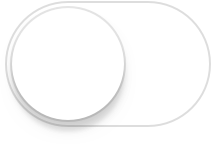
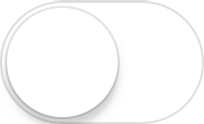
list with arrow and switch

diff --git a/index.html b/index.html
@@ -57,6 +57,9 @@
       font-size: 14px;
       line-height: 100%;
     }
+    .pTxt-small{
+      color: #999;
+    }
     .padLeft{
       padding-left: 15px;
     }
@@ -81,6 +84,43 @@
     .flex-center{
       justify-content: center;
     }
+    .arrow-right{
+      width: 6px;
+      height: 11px;
+      background-image: url(image/arrow-right@2x.png);
+      background-repeat: no-repeat;
+      background-size: contain;
+      float:right;
+    }
+    .toRight{
+      float: right;
+      align-items: flex-end;
+      text-align: right;
+    }
+    .toLeft{
+      float: left;
+      text-align: left;
+    }
+    .switch{
+      width: 51px;
+      height: 31px;
+      background-repeat: no-repeat;
+      background-size: contain;
+      float:right;
+    }
+    .switch-on{
+       background-image: url(image/switch-on@2x.png);
+    }
+    .switch-off{
+      background-image: url(image/switch-off@2x.png);
+    }
+    /*.divide{
+      width: 100%;
+      height: 20px;
+      padding: 20px;
+      background: #f6f6f6;
+      border-bottom: 1px solid #eee;
+    }*/
   </style>
     
 
@@ -97,6 +137,44 @@
       )
     }
 
+    function ListA(txt){
+      return (
+        <div className="list flex flex-center-vertical">
+          <p className="pTxt flex-1 padLeft">{txt.name}</p>
+          <div className="arrow-right flext-1 padRight"></div>
+        </div> 
+      )
+    }
+
+    function ListAT(txt){
+      return (
+        <div className="list flex flex-center-vertical">
+          <p className="pTxt flex-1 padLeft">{txt.name1}</p>
+          <p className="pTxt pTxt-small flex-1 padRight toRight">{txt.name2}</p>
+          <div className="arrow-right flext-1 padRight"></div>
+        </div> 
+      )
+    }
+
+    function ListSON(txt){
+      return (
+        <div className="list flex flex-center-vertical">
+          <p className="pTxt flex-1 padLeft">{txt.name}</p>
+          <div className="switch switch-on flext-1 padRight"></div>
+        </div> 
+      )
+    }
+
+    function ListSOFF(txt){
+      return (
+        <div className="list flex flex-center-vertical">
+          <p className="pTxt flex-1 padLeft">{txt.name}</p>
+          <div className="switch switch-off flext-1 padRight"></div>
+        </div> 
+      )
+    }
+
+   
     function Btn1(txt){
       return (
         <div className="btn btn1 flex flex-center-vertical">
@@ -124,6 +202,11 @@
           <ListR name = "列表"/> 
           <ListR name = "列表"/> 
           <ListR name = "列表"/> 
+          <ListA name = "带箭头的列表"/> 
+          <ListAT name1 = "带箭头和提示字的列表" name2="未设置"/> 
+          <ListSON name = "带开关的列表-开"/> 
+          <ListSOFF name = "带开关的列表-关"/> 
+      
           <Btn1 name = "按钮"/> 
           <Btn2 name1 = "按钮" name2 = "按钮"/> 
         </div>
